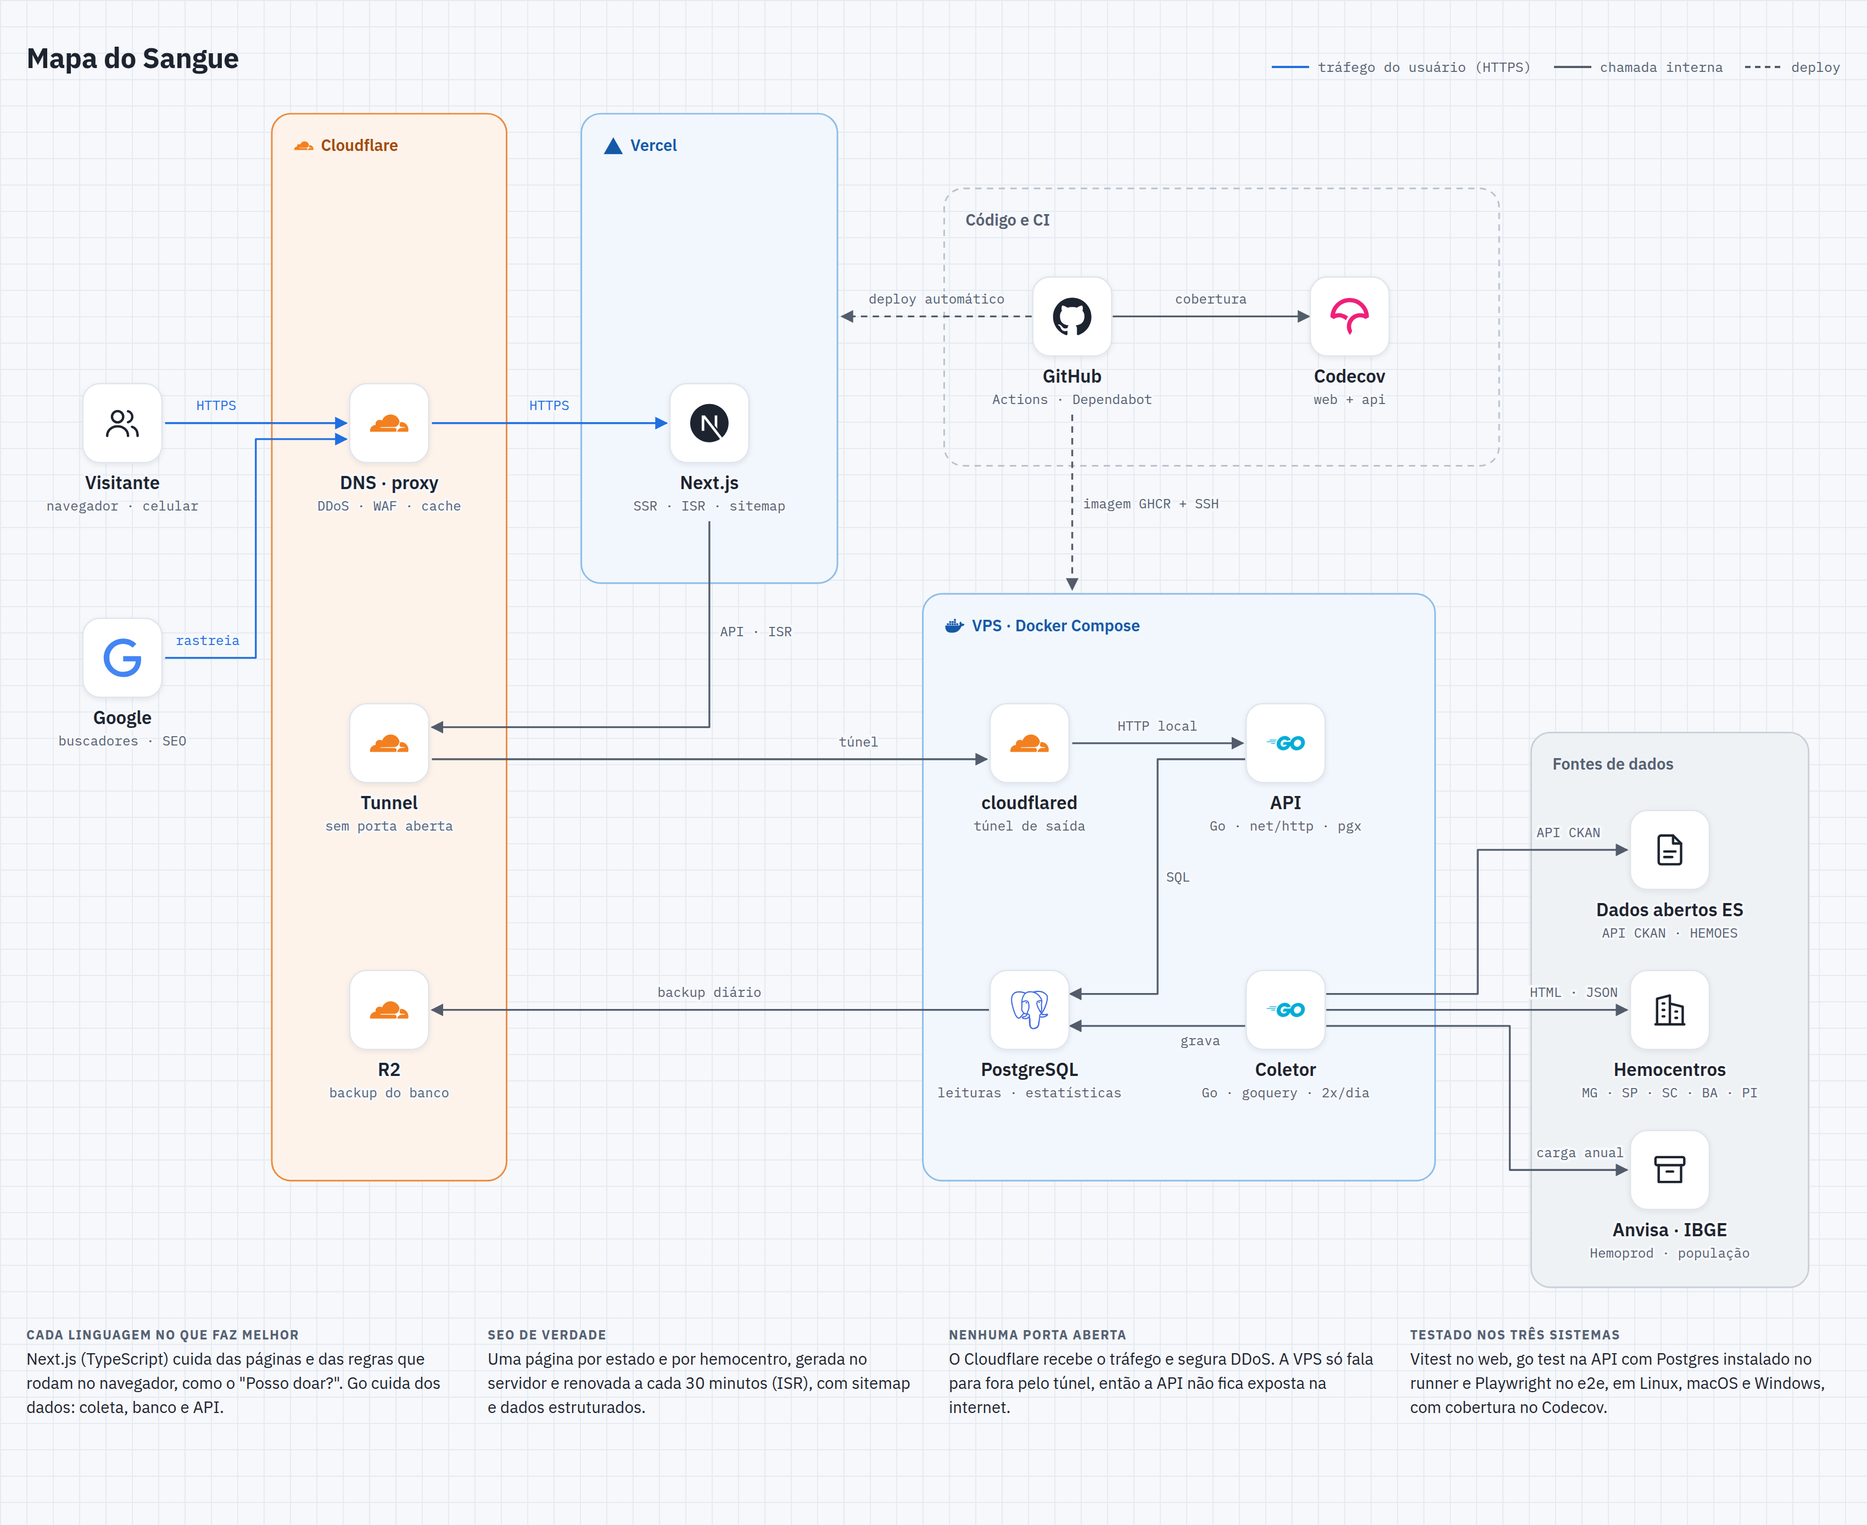
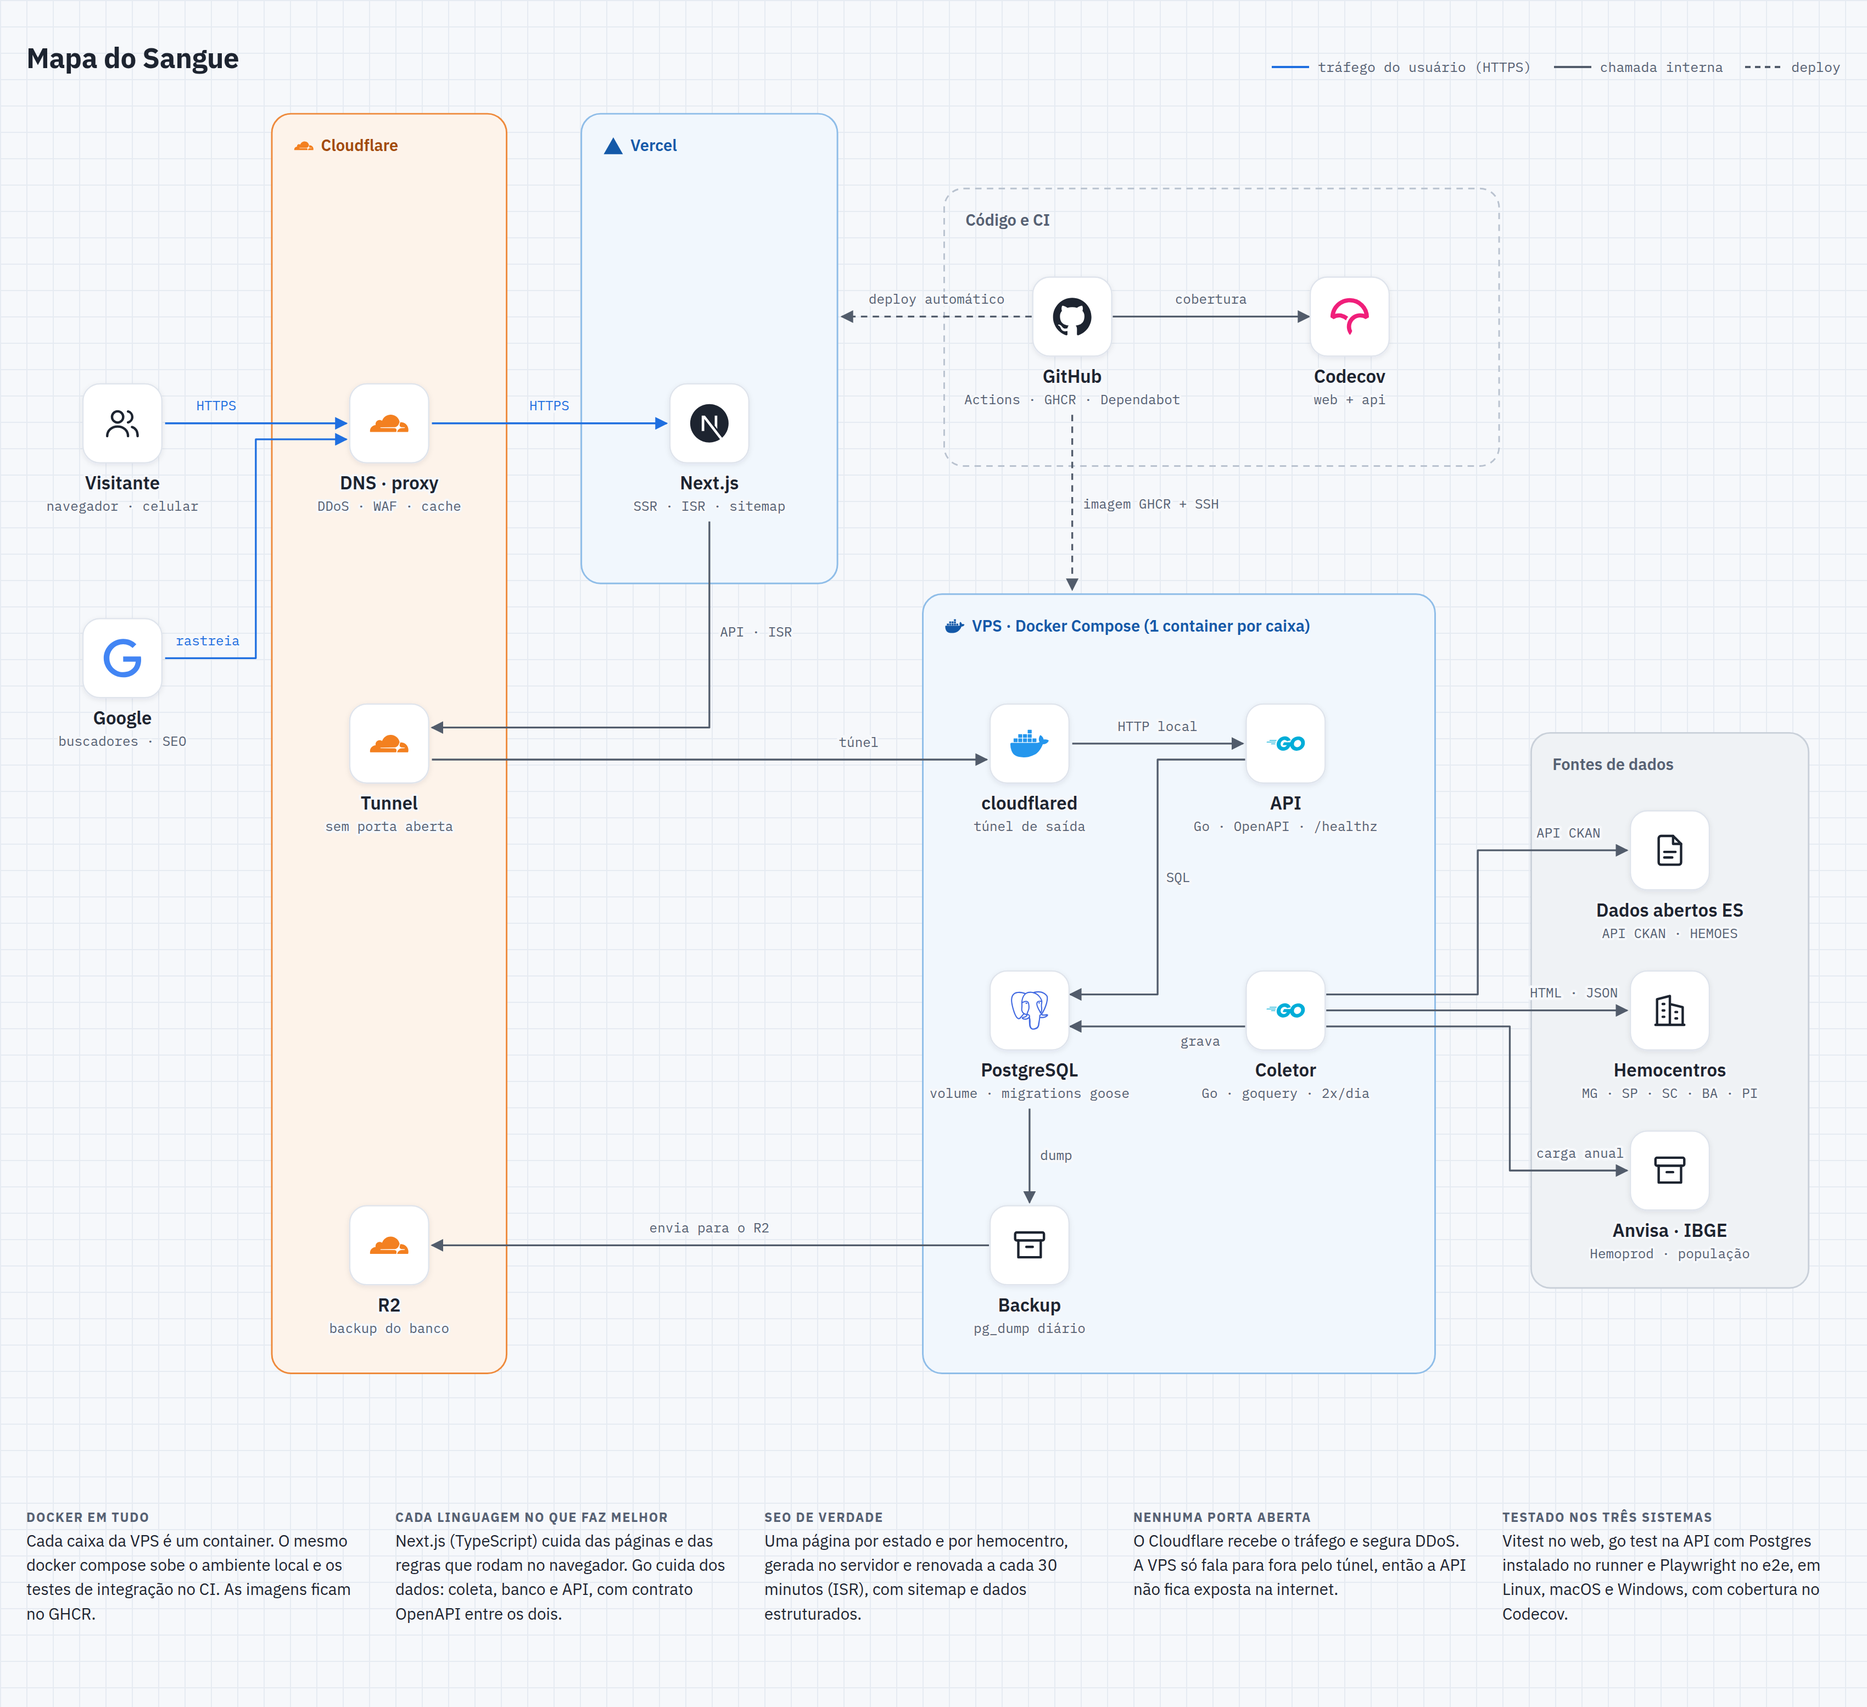
docs: adiciona Docker em todos os ambientes e checklist de boas práticas ao design

diff --git a/docs/design/arquitetura.html b/docs/design/arquitetura.html
@@ -46,10 +46,11 @@ h1 { font-size: 1.6rem; font-weight: 700; margin: 0; text-wrap: balance; letter-
     </div>
   </header>
 
-  <div class="canvas"><svg id="d" viewBox="20 95 1700 1130" role="img" aria-label="Diagrama de arquitetura do Mapa do Sangue"></svg></div>
+  <div class="canvas"><svg id="d" viewBox="20 95 1700 1300" role="img" aria-label="Diagrama de arquitetura do Mapa do Sangue"></svg></div>
 
   <section class="notes">
-    <div><b>Cada linguagem no que faz melhor</b><p>Next.js (TypeScript) cuida das páginas e das regras que rodam no navegador, como o "Posso doar?". Go cuida dos dados: coleta, banco e API.</p></div>
+    <div><b>Docker em tudo</b><p>Cada caixa da VPS é um container. O mesmo docker compose sobe o ambiente local e os testes de integração no CI. As imagens ficam no GHCR.</p></div>
+    <div><b>Cada linguagem no que faz melhor</b><p>Next.js (TypeScript) cuida das páginas e das regras que rodam no navegador. Go cuida dos dados: coleta, banco e API, com contrato OpenAPI entre os dois.</p></div>
     <div><b>SEO de verdade</b><p>Uma página por estado e por hemocentro, gerada no servidor e renovada a cada 30 minutos (ISR), com sitemap e dados estruturados.</p></div>
     <div><b>Nenhuma porta aberta</b><p>O Cloudflare recebe o tráfego e segura DDoS. A VPS só fala para fora pelo túnel, então a API não fica exposta na internet.</p></div>
     <div><b>Testado nos três sistemas</b><p>Vitest no web, go test na API com Postgres instalado no runner e Playwright no e2e, em Linux, macOS e Windows, com cobertura no Codecov.</p></div>
@@ -81,10 +82,10 @@ const GENERIC = {
 
 // Cada serviço sai por um lado diferente do nó, para as setas não se cruzarem.
 const GROUPS = [
-  { x: 250, y: 110, w: 220, h: 1000, t: 'Cloudflare', k: 'cf', icon: 'cloudflare' },
+  { x: 250, y: 110, w: 220, h: 1180, t: 'Cloudflare', k: 'cf', icon: 'cloudflare' },
   { x: 540, y: 110, w: 240, h: 440, t: 'Vercel', k: 'aws', icon: 'vercel' },
   { x: 880, y: 180, w: 520, h: 260, t: 'Código e CI', k: 'sub' },
-  { x: 860, y: 560, w: 480, h: 550, t: 'VPS · Docker Compose', k: 'aws', icon: 'docker' },
+  { x: 860, y: 560, w: 480, h: 730, t: 'VPS · Docker Compose (1 container por caixa)', k: 'aws', icon: 'docker' },
   { x: 1430, y: 690, w: 260, h: 520, t: 'Fontes de dados', k: 'ext' }
 ];
 
@@ -94,17 +95,18 @@ const NODES = [
 
   { x: 360, y: 400, t: 'DNS · proxy', s: 'DDoS · WAF · cache', i: 'cloudflare', c: '#F38020' },
   { x: 360, y: 700, t: 'Tunnel', s: 'sem porta aberta', i: 'cloudflare', c: '#F38020' },
-  { x: 360, y: 950, t: 'R2', s: 'backup do banco', i: 'cloudflare', c: '#F38020' },
+  { x: 360, y: 1170, t: 'R2', s: 'backup do banco', i: 'cloudflare', c: '#F38020' },
 
   { x: 660, y: 400, t: 'Next.js', s: 'SSR · ISR · sitemap', i: 'nextdotjs', mono: 1 },
 
-  { x: 1000, y: 300, t: 'GitHub', s: 'Actions · Dependabot', i: 'github', mono: 1 },
+  { x: 1000, y: 300, t: 'GitHub', s: 'Actions · GHCR · Dependabot', i: 'github', mono: 1 },
   { x: 1260, y: 300, t: 'Codecov', s: 'web + api', i: 'codecov', c: '#F01F7A' },
 
-  { x: 960, y: 700, t: 'cloudflared', s: 'túnel de saída', i: 'cloudflare', c: '#F38020' },
-  { x: 1200, y: 700, t: 'API', s: 'Go · net/http · pgx', i: 'go', c: '#00ADD8' },
-  { x: 960, y: 950, t: 'PostgreSQL', s: 'leituras · estatísticas', i: 'postgresql', c: '#4169E1' },
+  { x: 960, y: 700, t: 'cloudflared', s: 'túnel de saída', i: 'docker', c: '#2496ED' },
+  { x: 1200, y: 700, t: 'API', s: 'Go · OpenAPI · /healthz', i: 'go', c: '#00ADD8' },
+  { x: 960, y: 950, t: 'PostgreSQL', s: 'volume · migrations goose', i: 'postgresql', c: '#4169E1' },
   { x: 1200, y: 950, t: 'Coletor', s: 'Go · goquery · 2x/dia', i: 'go', c: '#00ADD8' },
+  { x: 960, y: 1170, t: 'Backup', s: 'pg_dump diário', g: 'archive' },
 
   { x: 1560, y: 800, t: 'Dados abertos ES', s: 'API CKAN · HEMOES', g: 'doc' },
   { x: 1560, y: 950, t: 'Hemocentros', s: 'MG · SP · SC · BA · PI', g: 'building' },
@@ -123,7 +125,8 @@ const EDGES = [
   // dados
   { p: [[1162, 715], [1080, 715], [1080, 935], [998, 935]], l: 'SQL', at: [1088, 830], v: 1 },
   { p: [[1162, 965], [998, 965]], l: 'grava', at: [1120, 983] },
-  { p: [[922, 950], [400, 950]], l: 'backup diário', at: [660, 938] },
+  { p: [[960, 1042], [960, 1130]], l: 'dump', at: [970, 1090], v: 1 },
+  { p: [[922, 1170], [400, 1170]], l: 'envia para o R2', at: [660, 1158] },
   // coletor → fontes
   { p: [[1238, 935], [1380, 935], [1380, 800], [1520, 800]], l: 'API CKAN', at: [1465, 788] },
   { p: [[1238, 950], [1520, 950]], l: 'HTML · JSON', at: [1470, 938] },

diff --git a/docs/design/arquitetura.src.html b/docs/design/arquitetura.src.html
@@ -46,10 +46,11 @@ h1 { font-size: 1.6rem; font-weight: 700; margin: 0; text-wrap: balance; letter-
     </div>
   </header>
 
-  <div class="canvas"><svg id="d" viewBox="20 95 1700 1130" role="img" aria-label="Diagrama de arquitetura do Mapa do Sangue"></svg></div>
+  <div class="canvas"><svg id="d" viewBox="20 95 1700 1300" role="img" aria-label="Diagrama de arquitetura do Mapa do Sangue"></svg></div>
 
   <section class="notes">
-    <div><b>Cada linguagem no que faz melhor</b><p>Next.js (TypeScript) cuida das páginas e das regras que rodam no navegador, como o "Posso doar?". Go cuida dos dados: coleta, banco e API.</p></div>
+    <div><b>Docker em tudo</b><p>Cada caixa da VPS é um container. O mesmo docker compose sobe o ambiente local e os testes de integração no CI. As imagens ficam no GHCR.</p></div>
+    <div><b>Cada linguagem no que faz melhor</b><p>Next.js (TypeScript) cuida das páginas e das regras que rodam no navegador. Go cuida dos dados: coleta, banco e API, com contrato OpenAPI entre os dois.</p></div>
     <div><b>SEO de verdade</b><p>Uma página por estado e por hemocentro, gerada no servidor e renovada a cada 30 minutos (ISR), com sitemap e dados estruturados.</p></div>
     <div><b>Nenhuma porta aberta</b><p>O Cloudflare recebe o tráfego e segura DDoS. A VPS só fala para fora pelo túnel, então a API não fica exposta na internet.</p></div>
     <div><b>Testado nos três sistemas</b><p>Vitest no web, go test na API com Postgres instalado no runner e Playwright no e2e, em Linux, macOS e Windows, com cobertura no Codecov.</p></div>
@@ -81,10 +82,10 @@ const GENERIC = {
 
 // Cada serviço sai por um lado diferente do nó, para as setas não se cruzarem.
 const GROUPS = [
-  { x: 250, y: 110, w: 220, h: 1000, t: 'Cloudflare', k: 'cf', icon: 'cloudflare' },
+  { x: 250, y: 110, w: 220, h: 1180, t: 'Cloudflare', k: 'cf', icon: 'cloudflare' },
   { x: 540, y: 110, w: 240, h: 440, t: 'Vercel', k: 'aws', icon: 'vercel' },
   { x: 880, y: 180, w: 520, h: 260, t: 'Código e CI', k: 'sub' },
-  { x: 860, y: 560, w: 480, h: 550, t: 'VPS · Docker Compose', k: 'aws', icon: 'docker' },
+  { x: 860, y: 560, w: 480, h: 730, t: 'VPS · Docker Compose (1 container por caixa)', k: 'aws', icon: 'docker' },
   { x: 1430, y: 690, w: 260, h: 520, t: 'Fontes de dados', k: 'ext' }
 ];
 
@@ -94,17 +95,18 @@ const NODES = [
 
   { x: 360, y: 400, t: 'DNS · proxy', s: 'DDoS · WAF · cache', i: 'cloudflare', c: '#F38020' },
   { x: 360, y: 700, t: 'Tunnel', s: 'sem porta aberta', i: 'cloudflare', c: '#F38020' },
-  { x: 360, y: 950, t: 'R2', s: 'backup do banco', i: 'cloudflare', c: '#F38020' },
+  { x: 360, y: 1170, t: 'R2', s: 'backup do banco', i: 'cloudflare', c: '#F38020' },
 
   { x: 660, y: 400, t: 'Next.js', s: 'SSR · ISR · sitemap', i: 'nextdotjs', mono: 1 },
 
-  { x: 1000, y: 300, t: 'GitHub', s: 'Actions · Dependabot', i: 'github', mono: 1 },
+  { x: 1000, y: 300, t: 'GitHub', s: 'Actions · GHCR · Dependabot', i: 'github', mono: 1 },
   { x: 1260, y: 300, t: 'Codecov', s: 'web + api', i: 'codecov', c: '#F01F7A' },
 
-  { x: 960, y: 700, t: 'cloudflared', s: 'túnel de saída', i: 'cloudflare', c: '#F38020' },
-  { x: 1200, y: 700, t: 'API', s: 'Go · net/http · pgx', i: 'go', c: '#00ADD8' },
-  { x: 960, y: 950, t: 'PostgreSQL', s: 'leituras · estatísticas', i: 'postgresql', c: '#4169E1' },
+  { x: 960, y: 700, t: 'cloudflared', s: 'túnel de saída', i: 'docker', c: '#2496ED' },
+  { x: 1200, y: 700, t: 'API', s: 'Go · OpenAPI · /healthz', i: 'go', c: '#00ADD8' },
+  { x: 960, y: 950, t: 'PostgreSQL', s: 'volume · migrations goose', i: 'postgresql', c: '#4169E1' },
   { x: 1200, y: 950, t: 'Coletor', s: 'Go · goquery · 2x/dia', i: 'go', c: '#00ADD8' },
+  { x: 960, y: 1170, t: 'Backup', s: 'pg_dump diário', g: 'archive' },
 
   { x: 1560, y: 800, t: 'Dados abertos ES', s: 'API CKAN · HEMOES', g: 'doc' },
   { x: 1560, y: 950, t: 'Hemocentros', s: 'MG · SP · SC · BA · PI', g: 'building' },
@@ -123,7 +125,8 @@ const EDGES = [
   // dados
   { p: [[1162, 715], [1080, 715], [1080, 935], [998, 935]], l: 'SQL', at: [1088, 830], v: 1 },
   { p: [[1162, 965], [998, 965]], l: 'grava', at: [1120, 983] },
-  { p: [[922, 950], [400, 950]], l: 'backup diário', at: [660, 938] },
+  { p: [[960, 1042], [960, 1130]], l: 'dump', at: [970, 1090], v: 1 },
+  { p: [[922, 1170], [400, 1170]], l: 'envia para o R2', at: [660, 1158] },
   // coletor → fontes
   { p: [[1238, 935], [1380, 935], [1380, 800], [1520, 800]], l: 'API CKAN', at: [1465, 788] },
   { p: [[1238, 950], [1520, 950]], l: 'HTML · JSON', at: [1470, 938] },

diff --git a/docs/design/README.md b/docs/design/README.md
@@ -19,23 +19,86 @@ Fonte editável: [arquitetura.src.html](arquitetura.src.html). Para gerar de nov
 
 O TP pede deploy em "plataforma de nuvem com plano gratuito". O site (Next.js) fica na Vercel, que é gratuita. Para a VPS da API seguir a mesma regra, a sugestão é a **Oracle Cloud Always Free** (VPS ARM gratuita sem prazo). Uma VPS paga (Hetzner, Contabo) pode entrar depois, sem mudar nada no código, porque tudo roda em Docker Compose.
 
+## Docker em todos os ambientes
+
+| Ambiente | Como roda |
+|---|---|
+| Desenvolvimento | `make dev` sobe `compose.yaml`: Postgres, API com recarga automática (air), coletor sob demanda e web (`next dev`) |
+| Testes de integração | `compose.test.yaml` sobe Postgres e API limpos; o job de Linux do CI roda a API real e o e2e contra eles |
+| Produção (VPS) | `compose.prod.yaml` com as imagens do GHCR: `api`, `coletor` (timer), `postgres`, `backup` e `cloudflared` |
+| Web | Na Vercel por padrão; o `web/Dockerfile` (saída `standalone` do Next) permite rodar o site também na VPS |
+
+Imagens: build em várias etapas, rodando como usuário sem privilégio, com `HEALTHCHECK`. A API usa imagem `distroless` (só o binário). O `hadolint` verifica os Dockerfiles e o Trivy procura vulnerabilidades nas imagens.
+
+Limite do GitHub Actions: os runners de macOS e Windows não têm Docker. Por isso o CI faz assim:
+- **Linux**: tudo em Docker (integração com `compose.test.yaml` e e2e)
+- **Linux, macOS e Windows**: testes de unidade e cobertura nativos, com Postgres instalado no runner pela action `ikalnytskyi/action-setup-postgres`. É isso que o TP exige
+
+## O que os projetos de referência têm e entra aqui
+
+Comparação com [go-clean-template](https://github.com/evrone/go-clean-template), [wild-workouts](https://github.com/ThreeDotsLabs/wild-workouts-go-ddd-example), [cal.com](https://github.com/calcom/cal.com), [umami](https://github.com/umami-software/umami), [dub](https://github.com/dubinc/dub) e [plausible](https://github.com/plausible/analytics).
+
+**P0: entra agora, faz parte do TP ou sustenta o resto**
+
+- Docker em todos os ambientes (seção acima), `.dockerignore`
+- `Makefile` com os comandos do projeto (`make dev`, `make test`, `make lint`, `make migrate`)
+- Configuração por variável de ambiente, com `.env.example` e validação na inicialização
+- Contrato OpenAPI (`api/openapi.yaml`): o servidor Go é gerado com `oapi-codegen` e o cliente TypeScript com `openapi-typescript`. Um teste de contrato garante que a API responde o que o contrato diz
+- Migrations com `goose`, validadas no CI
+- Lint e formatação: `golangci-lint` (Go) e Biome (TypeScript)
+- Ganchos de pré-commit com `lefthook` (lint, formatação, mensagem no padrão Conventional Commits)
+- `/healthz` e `/readyz`, desligamento sem perder requisições, timeouts e logs estruturados (`slog`)
+- Erros no formato padrão RFC 9457 (`application/problem+json`)
+- Segurança na API: CORS restrito ao domínio, cabeçalhos de segurança, limite de requisições no `POST /doacoes`
+
+**P1: qualidade que pesa na nota de testes e no portfólio**
+
+- Testes de acessibilidade com `axe-core` no Playwright
+- Lighthouse CI com metas de SEO, desempenho e acessibilidade
+- Testes de mutação (Stryker no TypeScript, gremlins no Go): mostram se os testes pegam bugs de verdade, e não só se executam as linhas
+- Segurança no CI: CodeQL, `govulncheck`, `gitleaks` (segredos no código), Trivy (imagens)
+- Dependabot também para `gomod` e `docker`
+- `CONTRIBUTING.md`, `SECURITY.md`, `CODE_OF_CONDUCT.md`, modelos de issue e PR, `CODEOWNERS`
+- Proteção da branch `main` com os checks obrigatórios
+- Decisões registradas em `docs/adr/`
+
+**P2: depois da entrega**
+
+- Monitor de disponibilidade (UptimeRobot, gratuito) e rastreio de erros (Sentry, plano gratuito)
+- Métricas com Prometheus e Grafana
+- Teste de carga com k6
+- Versões e changelog automáticos com release-please
+- Restauração do backup testada periodicamente
+
 ## Estrutura do repositório
 
 ```
 mapa-do-sangue/
-├── web/                 Next.js: páginas, componentes, regras do navegador
-│   ├── app/             rotas: /, /estado/[uf], /hemocentro/[id], /posso-doar, sitemap, robots
-│   ├── lib/domain/      regras de doação, compatibilidade, níveis (TypeScript puro)
-│   └── tests/           Vitest + Testing Library; e2e com Playwright
-├── api/                 Go: API HTTP, coletor e importador
-│   ├── cmd/api/         servidor HTTP
-│   ├── cmd/coletor/     coleta das fontes (rodado pelo systemd timer)
-│   ├── cmd/importar/    carga anual Anvisa + IBGE
-│   ├── internal/fontes/ um leitor por hemocentro + fixtures
-│   ├── internal/store/  consultas Postgres (pgx)
-│   └── migrations/      SQL versionado (goose)
-├── deploy/              docker-compose.yml, cloudflared, backup
-└── docs/                pesquisa e design
+├── web/                    Next.js: páginas, componentes, regras do navegador
+│   ├── app/                rotas: /, /estado/[uf], /hemocentro/[id], /posso-doar, sitemap, robots
+│   ├── lib/domain/         regras de doação, compatibilidade, níveis (TypeScript puro)
+│   ├── lib/api/            cliente gerado do OpenAPI
+│   ├── tests/              Vitest + Testing Library; e2e com Playwright
+│   └── Dockerfile
+├── api/                    Go: API HTTP, coletor e importador
+│   ├── openapi.yaml        contrato da API (fonte única)
+│   ├── cmd/api/            servidor HTTP
+│   ├── cmd/coletor/        coleta das fontes
+│   ├── cmd/importar/       carga anual Anvisa + IBGE
+│   ├── internal/config/    variáveis de ambiente validadas
+│   ├── internal/dominio/   tipos, níveis, escalas
+│   ├── internal/fontes/    um leitor por hemocentro + testdata/ com as páginas salvas
+│   ├── internal/store/     consultas Postgres (pgx)
+│   ├── internal/http/      handlers, middlewares (CORS, limite, logs)
+│   ├── migrations/         SQL versionado (goose)
+│   └── Dockerfile
+├── deploy/                 compose.prod.yaml, cloudflared, backup
+├── compose.yaml            ambiente local
+├── compose.test.yaml       testes de integração
+├── Makefile
+├── .env.example
+├── lefthook.yml
+└── docs/                   pesquisa, design e adr/
 ```
 
 ## Contrato da API (v1)
